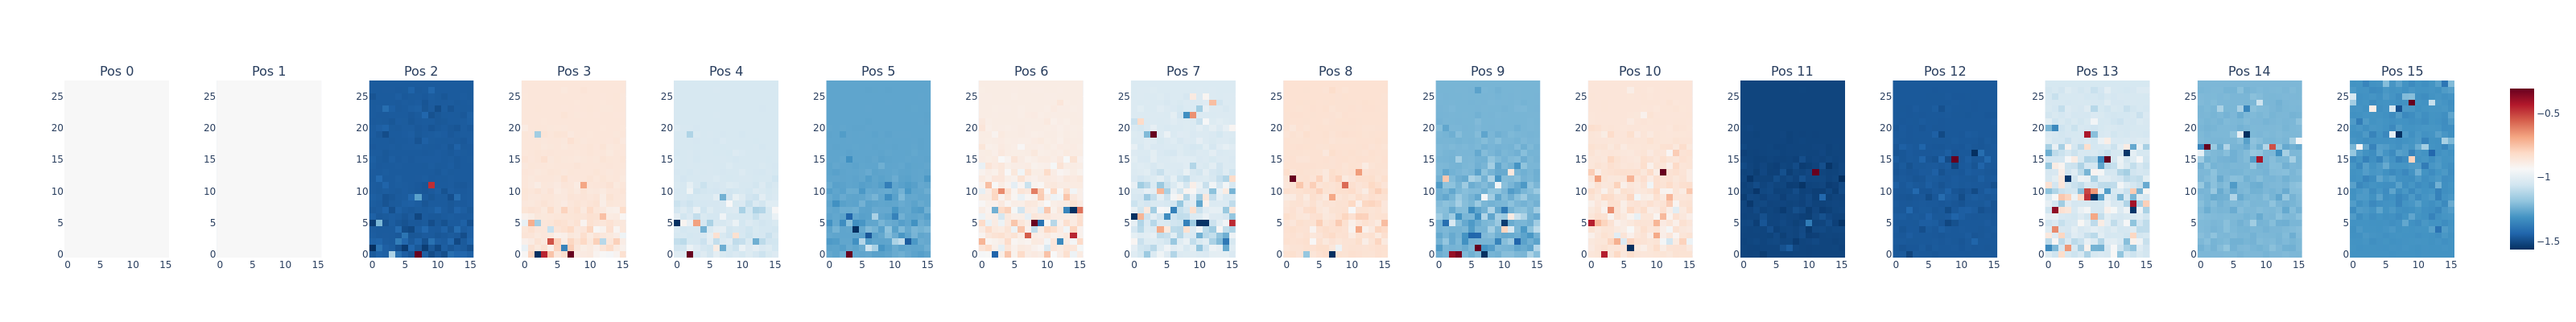
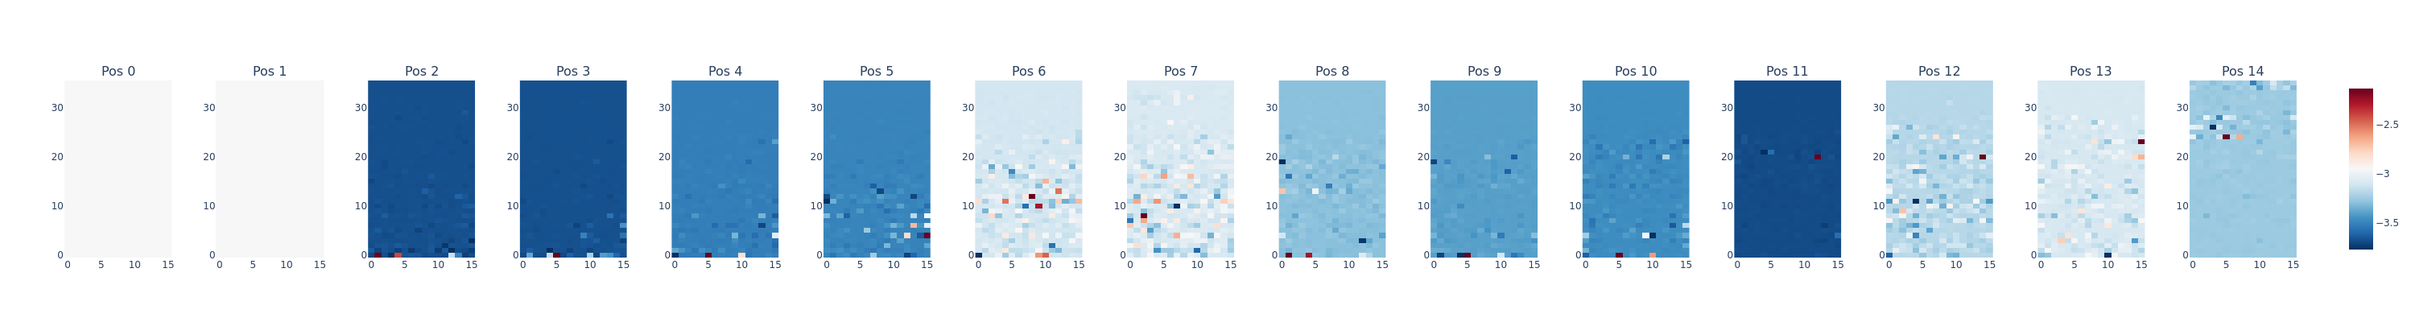
prompt changes

diff --git a/src/Experiments/path_patching/data/prompts.py b/src/Experiments/path_patching/data/prompts.py
@@ -1,34 +1,34 @@
 prompts = [
     {
-        "clean_prompt": "Is 9432 > 8231? Answer: ",
-        "clean_label": "Yes",
+        "clean_prompt": "Is 9432 > 8231? Answer:",
+        "clean_label": " yes",
     },
     {
-        "clean_prompt": "Is 8231 > 9432? Answer: ",
-        "clean_label": "No",
+        "clean_prompt": "Is 8231 > 9432? Answer:",
+        "clean_label": " NO",
     },
     {
-        "clean_prompt": "Is 5012 > 4657? Answer: ",
-        "clean_label": "Yes",
+        "clean_prompt": "Is 5012 > 4657? Answer:",
+        "clean_label": " yes",
     },
     {
-        "clean_prompt": "Is 4657 > 5012? Answer: ",
-        "clean_label": "No",
+        "clean_prompt": "Is 4657 > 5012? Answer:",
+        "clean_label": " NO",
     },
     {
-        "clean_prompt": "Is 2679 > 9935? Answer: ",
-        "clean_label": "No",
+        "clean_prompt": "Is 2679 > 9935? Answer:",
+        "clean_label": " NO",
     },
     {
-        "clean_prompt": "Is 9935 > 2679? Answer: ",
-        "clean_label": "Yes",
+        "clean_prompt": "Is 9935 > 2679? Answer:",
+        "clean_label": " yes",
     },
     {
-        "clean_prompt": "Is 3615 > 7924? Answer: ",
-        "clean_label": "No",
+        "clean_prompt": "Is 3615 > 7924? Answer:",
+        "clean_label": " NO",
     },
     {
-        "clean_prompt": "Is 7924 > 3615? Answer: ",
-        "clean_label": "Yes",
+        "clean_prompt": "Is 7924 > 3615? Answer:",
+        "clean_label": " yes",
     },
 ]

diff --git a/src/Experiments/Activation_Patching/activation_patching.py b/src/Experiments/Activation_Patching/activation_patching.py
@@ -13,12 +13,10 @@ t.set_grad_enabled(False)
 
 results_dir = "results"
 os.makedirs(results_dir, exist_ok=True)
-
-#%%
 from transformer_lens.patching import get_act_patch_attn_head_out_by_pos
 from transformer_lens.HookedTransformer import HookedTransformer
 #%%
-model = HookedTransformer.from_pretrained("Qwen/Qwen3-1.7b")
+model = HookedTransformer.from_pretrained("Qwen/Qwen2.5-3b")
 
 n_layers = model.cfg.n_layers
 n_heads = model.cfg.n_heads
@@ -27,10 +25,10 @@ head_counts = t.zeros(n_layers, n_heads, dtype=t.long)
 
 prompts = [
   {
-    "clean_prompt": "Is 9432 > 8231? Answer: ",
-    "corrupted_prompt": "Is 8231 > 9432? Answer: ",
-    "clean_label": "Yes",
-    "corrupted_label": "No"
+    "clean_prompt": "Is 9432 > 8231? Answer:",
+    "corrupted_prompt": "Is 8231 > 9432? Answer:",
+    "clean_label": " yes",
+    "corrupted_label": " NO"
   },
 ]
 #%% 
@@ -67,7 +65,7 @@ for i, item in enumerate(prompts):
         patching_metric=logit_diff_metric
     )
     
-    t.save(tensor_result.cpu(), os.path.join(results_dir, f"patching_result_qwen1.7{i:03d}.pt"))
+    t.save(tensor_result.cpu(), os.path.join(results_dir, f"patching_result_qwen2.5test{i:03d}.pt"))
 
     std_threshold = 5.0
     n_layers, n_positions, n_heads = tensor_result.shape

diff --git a/src/Experiments/Logit/mlp_logit_attribution.py b/src/Experiments/Logit/mlp_logit_attribution.py
@@ -1,0 +1,50 @@
+#%%
+import sys
+import os
+sys.path.append(os.path.join(os.path.dirname(__file__), '..', '..'))
+
+from Interpretability import head_zero_ablation_hook_by_pos
+import torch
+from test_suite.eval_logits import run_benchmark_logits
+
+from functools import partial
+from transformer_lens import HookedTransformer, utils
+
+torch.set_grad_enabled(False)
+torch.cuda.empty_cache()
+
+model = HookedTransformer.from_pretrained(
+    "Qwen/Qwen2.5-3b",
+    center_unembed=True,
+    center_writing_weights=True,
+    fold_ln=True,
+    )
+
+#%%
+example_prompt = "Is 7912 > 1510? Answer:"
+example_answer = "NO"
+
+utils.test_prompt(example_prompt, example_answer, model, prepend_bos=True)
+#%%
+
+per_head_residual, labels = cache.stack_head_results(layer=-1, pos_slice=-1, return_labels=True)
+per_head_residual = einops.rearrange(
+    per_head_residual, 
+    "(layer head) ... -> layer head ...", 
+    layer=model.cfg.n_layers
+)
+
+# 2. Project onto your Yes-No direction
+per_head_logit_diffs = residual_stack_to_logit_diff(per_head_residual, cache)
+
+# 3. Plot
+imshow(
+    per_head_logit_diffs,
+    labels={"x": "Head", "y": "Layer"},
+    title="Logit Difference From Each Head",
+    width=600,
+)
+
+# %%
+
+

diff --git a/src/Experiments/Activation_Patching/plot_patching_result.py b/src/Experiments/Activation_Patching/plot_patching_result.py
@@ -10,20 +10,20 @@ from transformer_lens import HookedTransformer
 
 # %%
 
-model = HookedTransformer.from_pretrained("Qwen/Qwen3-1.7b")
+model = HookedTransformer.from_pretrained("Qwen/Qwen2.5-3b")
 
 #%%
 prompts = [
   {
-    "clean_prompt": "Is 9432 > 8231? Answer: ",
-    "corrupted_prompt": "Is 8231 > 9432? Answer: ",
-    "clean_label": "Yes",
-    "corrupted_label": "No"
+    "clean_prompt": "Is 9432 > 8231? Answer:",
+    "corrupted_prompt": "Is 8231 > 9432? Answer:",
+    "clean_label": " yes",
+    "corrupted_label": " NO"
   },
 ]
 
 # plot one heatmap per position
-patching_result = torch.load("results/patching_result_qwen1.7000.pt")
+patching_result = torch.load("results/patching_result_qwen2.5test000.pt")
 prompt = prompts[0]["clean_prompt"]
 
 #%%

diff --git a/src/Experiments/path_patching/head_to_head.py b/src/Experiments/path_patching/head_to_head.py
@@ -29,11 +29,11 @@ prompts = [p["clean_prompt"] for p in prompt_list]
 labels = [p["clean_label"] for p in prompt_list]
 
 # Define the answers for each prompt, in the form (correct, incorrect)
-answers = [("Yes", "No") if label == "Yes" else ("No", "Yes") for label in labels]
+answers = [(" yes", " NO") if label == " yes" else (" NO", " yes") for label in labels]
 
 # Define the answer tokens (same shape as the answers)
-yes_id = model.to_single_token("Yes")
-no_id  = model.to_single_token("No")
+yes_id = model.to_single_token(" yes")
+no_id  = model.to_single_token(" NO")
 
 answer_tokens = []
 for label in labels:

diff --git a/src/test_suite/eval.py b/src/test_suite/eval.py
@@ -106,3 +106,6 @@ def run_benchmark(model, task_name, num_fewshot=0, limit=1000, run=1, ablated_he
 
     print(f"Results saved in {file_name}")
     return df
+
+
+#%%
